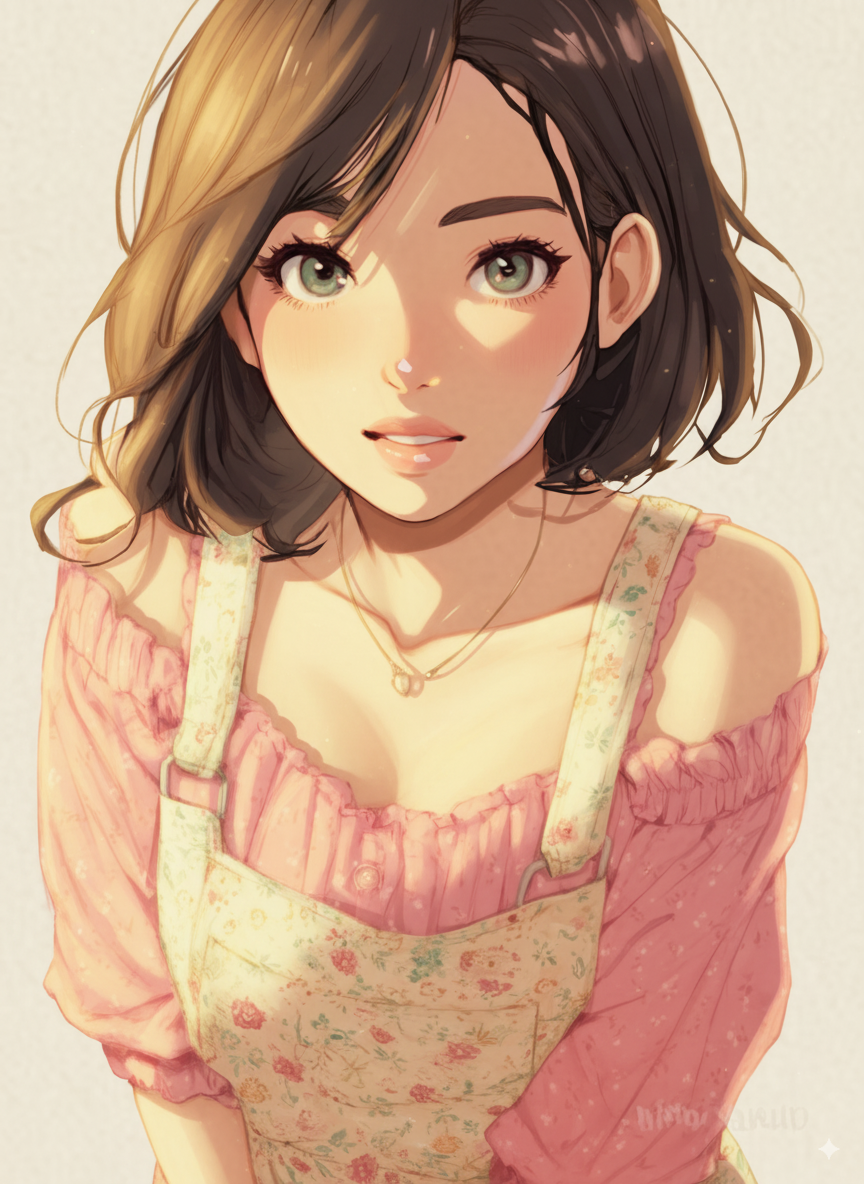
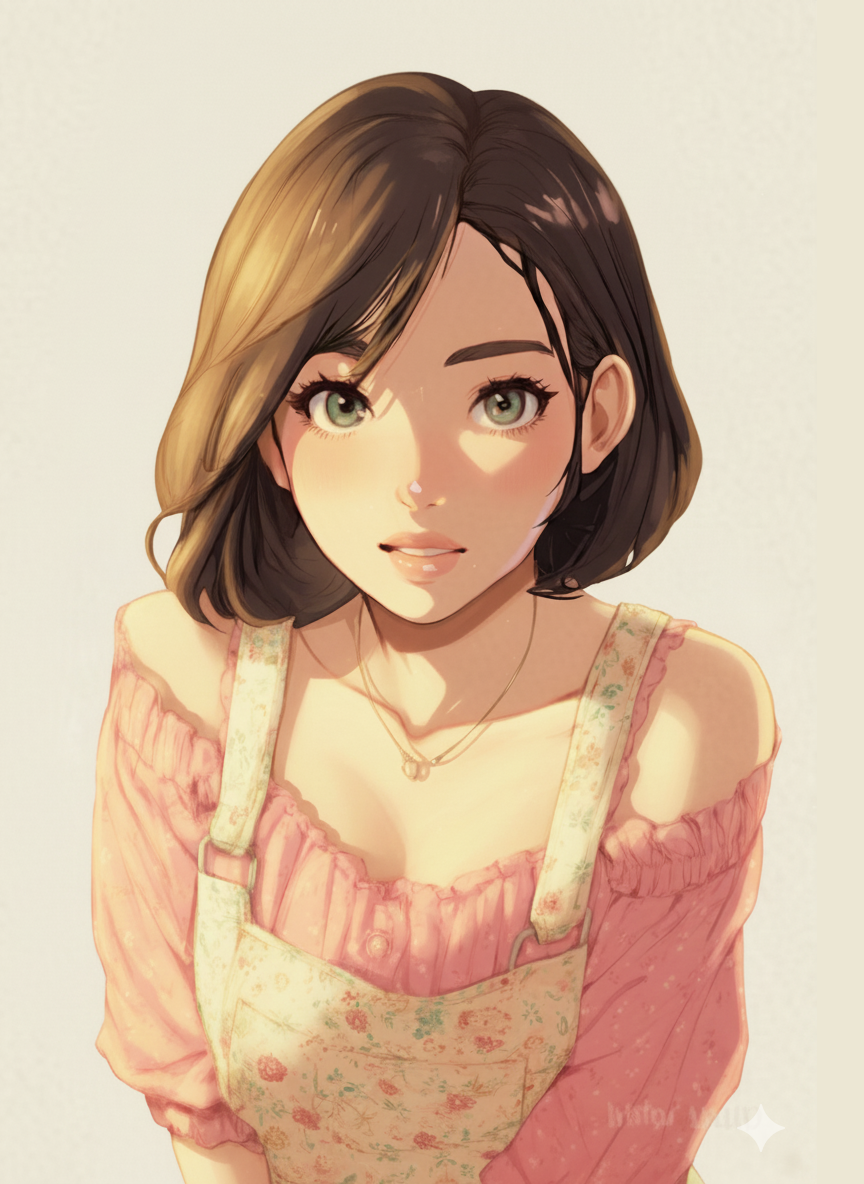
Portraits and persistent header update plan.
Updated portrait for Aria to position her more like Kai and Elias in frame. Adding Player Portrait. Adding markdown documents for updating the top HUD so that it's closer to F2P mobile collection games like AFK Arena and Love & Deepspace.

diff --git a/docs/development/HEADER_REDESIGN_PLAN.md b/docs/development/HEADER_REDESIGN_PLAN.md
@@ -1,0 +1,180 @@
+# Persistent Header Redesign Plan - F2P Mobile Gacha Standards
+
+## Overview
+Redesign the persistent header to align with best practices from successful F2P mobile gacha games like AFK Arena, Love & Deepspace, and similar titles. The header should prioritize player identity, progression visibility, and resource management.
+
+## Current vs. Proposed Structure
+
+### Current Header Elements:
+- Logo/Brand (left)
+- Coins & Subscribers (center)
+- Settings & Notifications (right)
+
+### Proposed Header Structure (Single Line):
+
+#### Left Section - Player Identity
+- **Player Portrait** (using provided asset)
+  - Circular frame with level indicator badge
+  - Tap to open player profile (includes settings)
+  - Seasonal/event borders for special occasions
+
+#### Center Section - Core Currencies
+- **Premium Currency** (Diamonds)
+  - With inline "+" button for shop access
+  - Most prominent visual treatment
+- **Soft Currency** (Coins)
+  - No purchase option
+  - Shows abbreviated amounts (e.g., "125.3K")
+
+#### Right Section - Secondary Resources & Actions
+- **Gacha Currency** (Tickets)
+  - Simple count display
+- **Blog Subscribers**
+  - Social/community metric
+- **Notifications** (bell with badge)
+  - Red badge for unread count
+
+## Context-Sensitive Header Variations
+
+### 1. Main Cafe Screen
+- Show all currencies
+- Highlight cafe level progression
+- Quick access to all features
+
+### 2. Gacha Screen
+- Emphasize gacha tickets/premium currency
+- Show pity counter (subtle indicator)
+- Hide irrelevant currencies
+
+### 3. Pet Collection
+- Show collection progress (X/Y pets)
+- Highlight duplicate tokens
+- Pet-specific currencies if any
+
+### 4. Messages/DM Screen
+- Show bond levels for active NPCs
+- Notification badges prominent
+- Social metrics visible
+
+### 5. Blog Screen
+- Emphasize subscriber count
+- Show trending indicator
+- Content creation resources
+
+### 6. Shop Screen
+- All currencies visible
+- Special offers timer
+- VIP/Pass status if applicable
+
+## Visual Design Guidelines
+
+### Typography
+- **Player Level**: Bold, larger font
+- **Currencies**: Medium weight, good contrast
+- **Labels**: Small, subdued color
+
+### Colors
+- **Premium Currency**: Gold/Yellow gradient
+- **Soft Currency**: Silver/Blue
+- **Energy**: Green (full) to Red (empty)
+- **Notifications**: Red dot with white number
+
+### Animations
+- **Currency Changes**: Smooth count-up animation
+- **Level Up**: Burst effect with particles
+- **Low Resources**: Gentle pulse/glow
+- **New Notifications**: Bounce animation
+
+### Responsive Behavior
+- **Mobile Portrait**: Compact view, abbreviated numbers
+- **Mobile Landscape**: Full view with labels
+- **Tablet**: Extended view with additional stats
+- **Collapse Pattern**: Hide labels first, then secondary currencies
+
+## Implementation Priorities
+
+### Phase 1 - Core Redesign
+1. Add player portrait with level badge overlay
+2. Reorganize currency display in single line
+3. Implement proper number formatting (K, M, B)
+4. Add inline "+" button for diamond purchases only
+
+### Phase 2 - Context Sensitivity
+1. Create header variants for each screen type
+2. Implement smooth transitions between variants
+3. Add relevant quick actions per screen
+
+### Phase 3 - Polish & Feedback
+1. Add animations for value changes
+2. Implement long-press tooltips
+3. Add haptic feedback for interactions
+4. Create special event variations
+
+## Technical Considerations
+
+### State Management
+```typescript
+interface HeaderState {
+  variant: HeaderVariant;
+  displayCurrencies: CurrencyType[];
+  quickActions: ActionButton[];
+  notifications: NotificationData;
+  playerProgress: ProgressData;
+}
+```
+
+### Currency Formatting
+```typescript
+function formatCurrency(value: number): string {
+  if (value >= 1_000_000_000) return `${(value / 1_000_000_000).toFixed(1)}B`;
+  if (value >= 1_000_000) return `${(value / 1_000_000).toFixed(1)}M`;
+  if (value >= 1_000) return `${(value / 1_000).toFixed(1)}K`;
+  return value.toString();
+}
+```
+
+### Animation System
+- Use CSS transitions for smooth updates
+- Implement value interpolation for count-ups
+- Add easing functions for natural motion
+- Consider reduced motion preferences
+
+## Monetization Touchpoints
+
+### Direct Purchase Prompts
+- "+" button on premium currency
+- Low currency warnings
+- Special offer badges
+
+### Indirect Encouragement
+- Show what player is missing
+- Highlight premium benefits
+- Create currency pressure points
+
+### Best Practices
+- Never hide free options
+- Always show earning potential
+- Make purchases feel valuable
+- Respect player choice
+
+## Player Profile Screen (New)
+When tapping the player portrait, open a dedicated profile screen that includes:
+- Player stats and achievements
+- Settings menu (moved from header)
+- Account management
+- Progress tracking
+- Customization options
+
+## Accessibility Requirements
+- High contrast mode support
+- Screen reader labels
+- Touch target sizes (44x44 minimum)
+- Clear visual hierarchy
+- No color-only indicators
+
+## Success Metrics
+- Click-through rate on currency buttons
+- Time to locate specific information
+- Player satisfaction with layout
+- Conversion on low-currency prompts
+- Reduced support tickets about "finding things"

diff --git a/docs/development/HEADER_VISUAL_MOCKUP.md b/docs/development/HEADER_VISUAL_MOCKUP.md
@@ -1,0 +1,123 @@
+# Persistent Header Visual Mockup
+
+## Layout Structure (Mobile First)
+
+```
+┌────────────────────────────────────────────────────────────┐
+│ [Portrait] Lv.12  💎 2,450 [+]  🪙 125.3K  🎫 x5  📊 48.2K [🔔3] │
+└────────────────────────────────────────────────────────────┘
+```
+
+## Detailed Breakdown
+
+### Left Section (Player Identity)
+```
+┌───────────┐
+│ [Portrait]│ Lv.12
+│   Lv.12   │
+└───────────┘
+```
+- Player portrait with decorative frame
+- Level badge overlapping bottom-right
+- Tap to open player profile (includes settings)
+
+### Center Section (Primary Currencies)
+```
+┌───────────────────────────┐
+│ 💎 2,450 [+]  🪙 125.3K   │
+└───────────────────────────┘
+```
+- Premium currency (Diamonds) with inline "+" button
+- Soft currency (Coins) - no purchase option
+- Animated count changes
+
+### Right Section (Secondary Resources)
+```
+┌─────────────────────┐
+│ 🎫 x5  📊 48.2K [🔔3]│
+└─────────────────────┘
+```
+- Gacha tickets with count
+- Blog subscribers (social metric)
+- Notification bell with badge
+
+## Screen-Specific Variations
+
+### Gacha Screen Header
+```
+┌────────────────────────────────────────────────────────────┐
+│ [Portrait] Lv.12  💎 2,450 [+]  🎫 x5  Pity: 72/90  [🔔3] │
+└────────────────────────────────────────────────────────────┘
+```
+- Shows pity counter
+- Emphasizes gacha-relevant currencies
+- Hides blog subscribers
+
+### Messages Screen Header
+```
+┌────────────────────────────────────────────────────────────┐
+│ [Portrait] Lv.12  Aria♥♥♥ Kai♥♥ Elias♥  📊 48.2K  [🔔12] │
+└────────────────────────────────────────────────────────────┘
+```
+- Shows bond summary
+- Emphasizes notifications
+- Social focus
+
+### Pet Collection Header
+```
+┌────────────────────────────────────────────────────────────┐
+│ [Portrait] Lv.12  Collection: 42/60  🏆 15%  🪙 125.3K [🔔3]│
+└────────────────────────────────────────────────────────────┘
+```
+- Collection progress
+- Completion percentage
+- Shows coins for potential purchases
+
+## Visual Styling
+
+### Colors
+- **Background**: Semi-transparent dark overlay (#000000CC)
+- **Player Level**: Bright gold (#FFD700)
+- **Premium Currency**: Gradient gold (#FFD700 → #FFA500)
+- **Soft Currency**: Silver blue (#C0C0C0 → #87CEEB)
+- **Gacha Tickets**: Purple accent (#9370DB)
+- **Subscribers**: Warm pink (#FFB6C1)
+- **"+" Button**: Bright green (#32CD32) with subtle glow
+
+### Typography
+- **Level Number**: Bold, 18px
+- **Currency Values**: Medium, 16px
+- **Labels**: Light, 12px
+- **Notification Badge**: Bold, 10px
+
+### Effects
+- **Portrait Frame**: Animated shimmer effect
+- **Low Currency**: Gentle red pulse
+- **Currency Gain**: Green +value float up
+- **Currency Spend**: Red -value float down
+- **Level Up**: Golden burst particles
+
+## Responsive Breakpoints
+
+### Mobile Portrait (< 375px)
+- Compact view, no labels
+- Abbreviated numbers (2.4K not 2,450)
+- Smaller touch targets (40x40)
+
+### Mobile Landscape (375px - 768px)
+- Full number display
+- Standard touch targets (44x44)
+- Some labels visible
+
+### Tablet (> 768px)
+- All labels visible
+- Extended stats (play time, etc.)
+- Larger portrait (64x64)
+- Additional quick actions
+
+## Implementation Notes
+- Use CSS Grid for flexible layout
+- Implement smooth transitions (0.3s ease)
+- Add haptic feedback on iOS
+- Support theme variations (dark/light)
+- Ensure WCAG AA compliance
